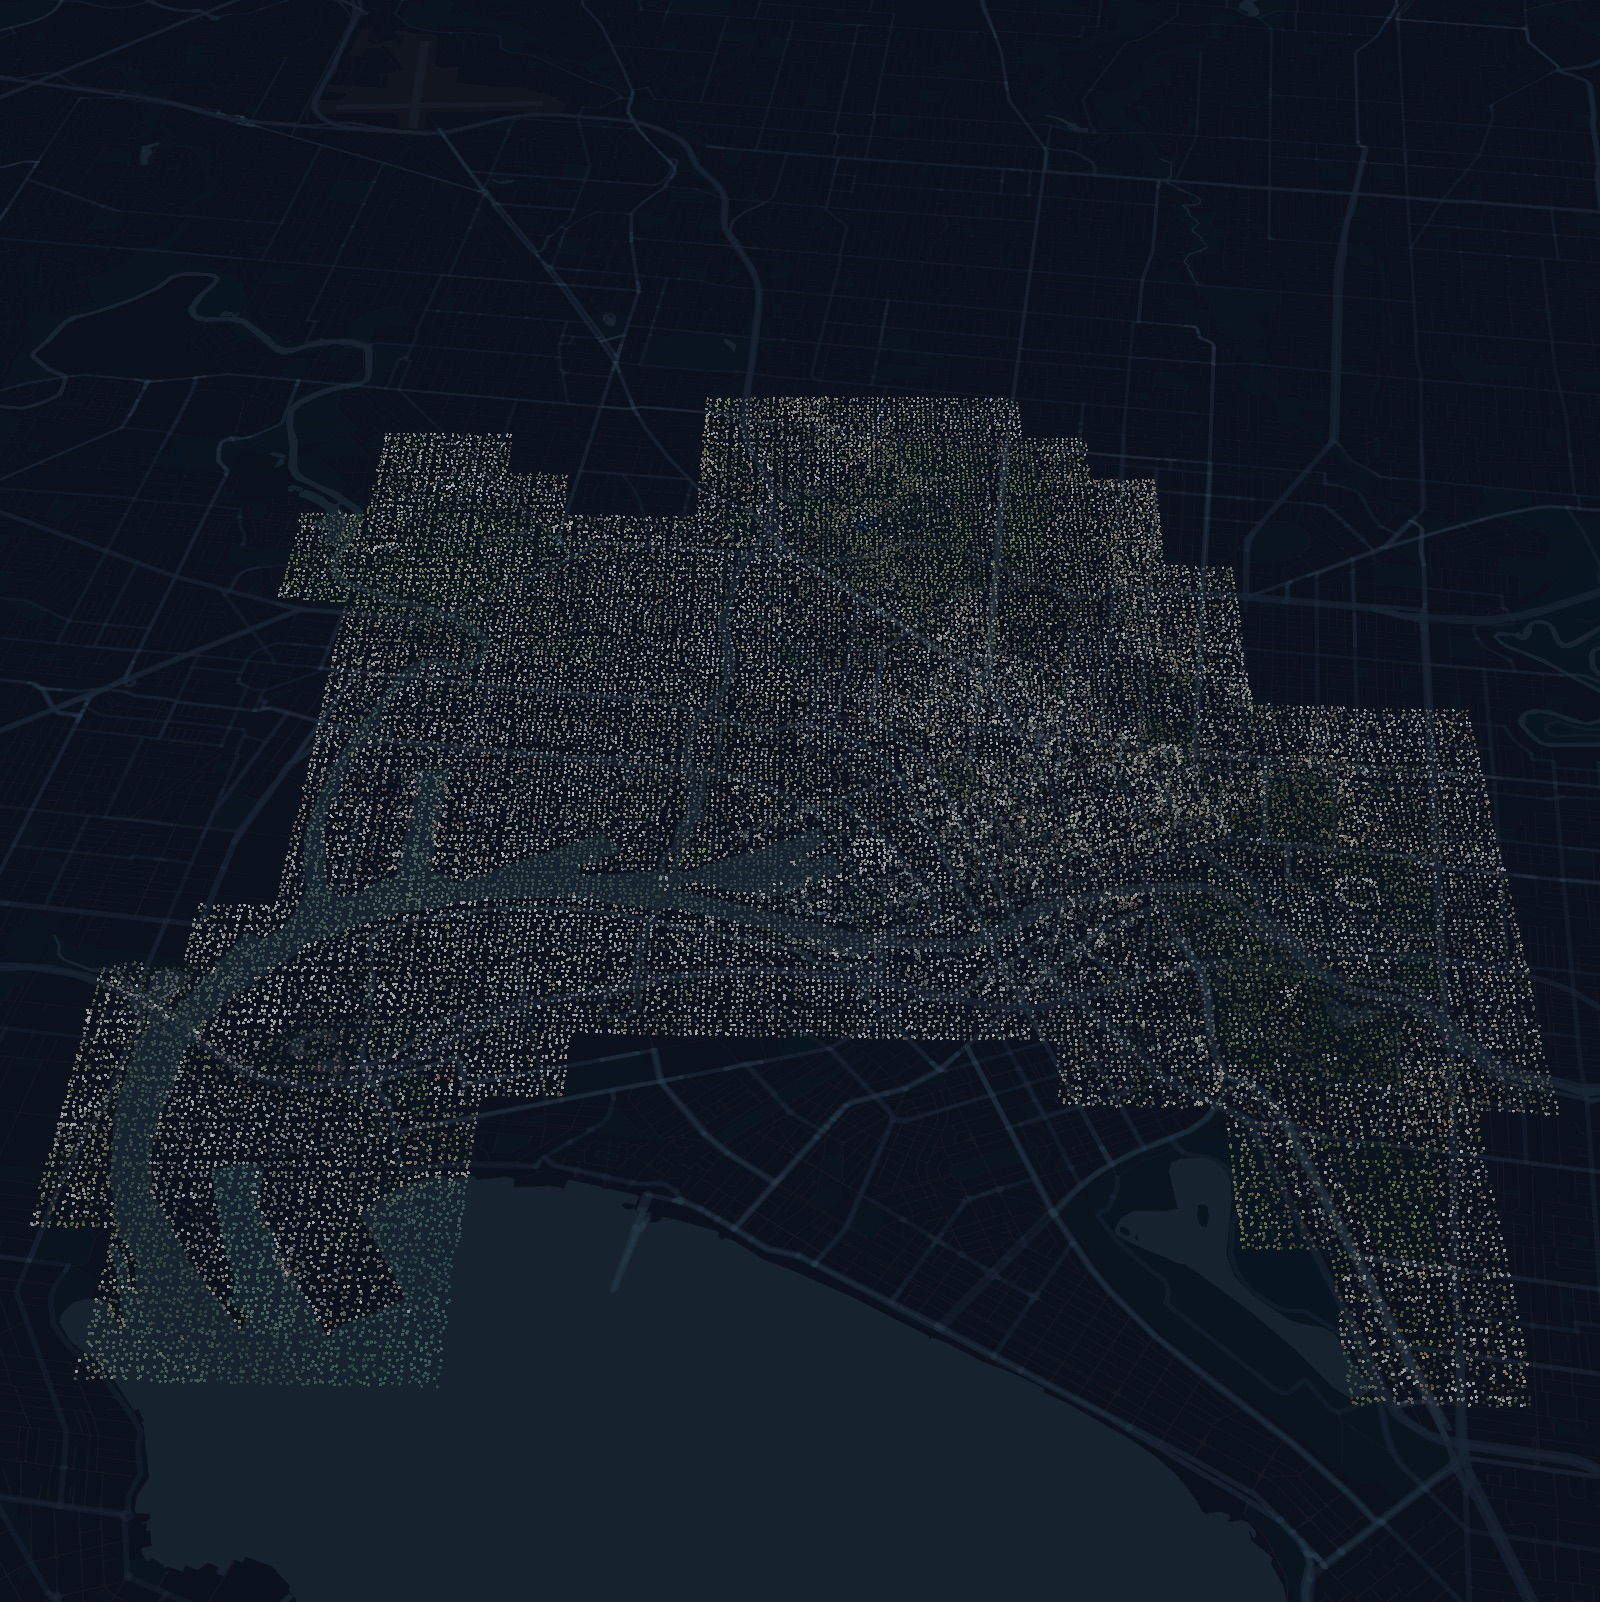
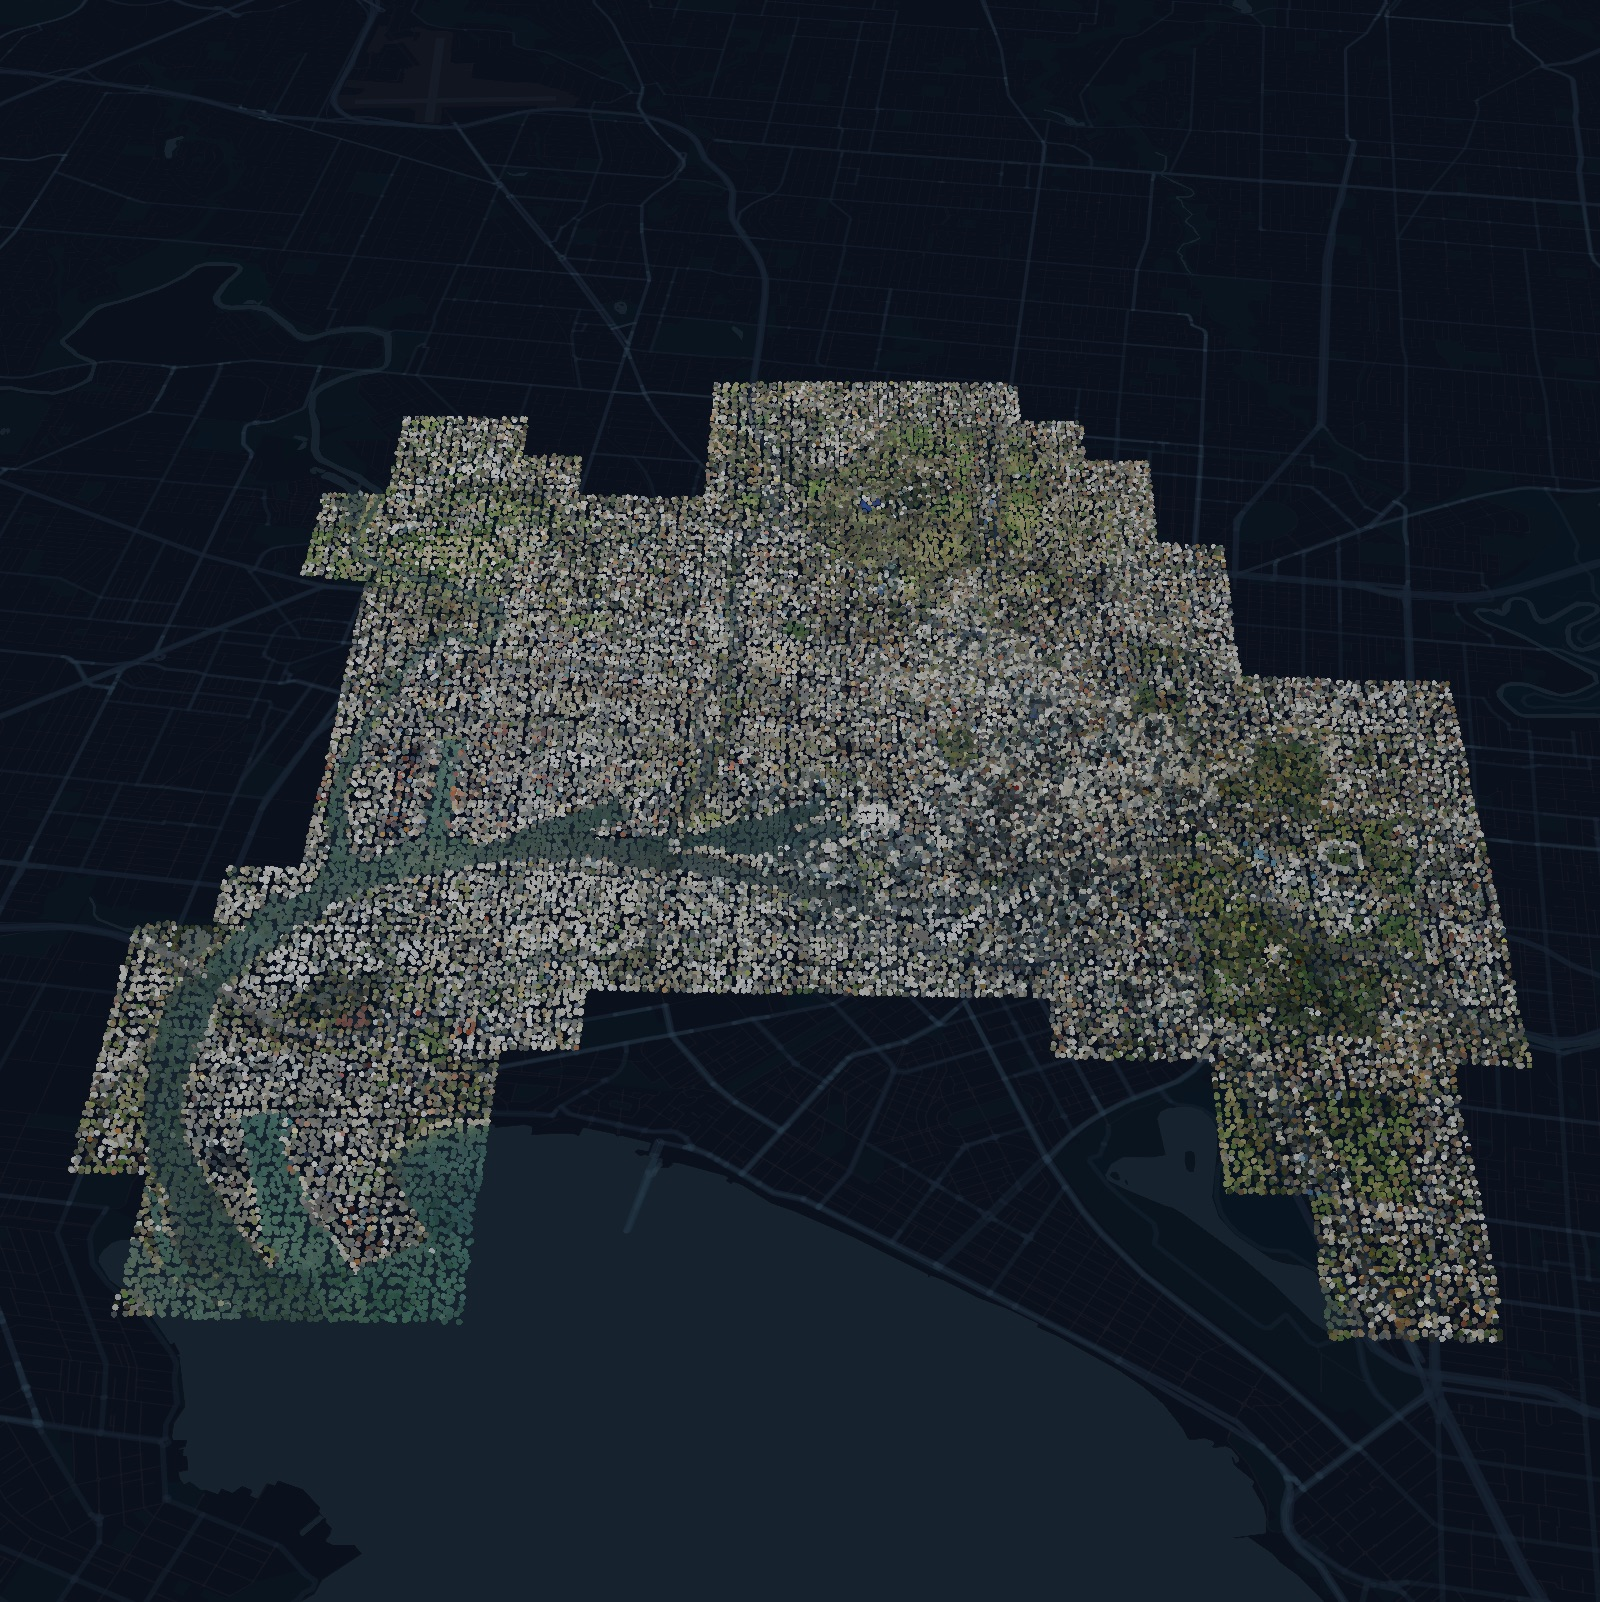
code review

Changed region(s): [[0.0312, 0.2185, 0.9688, 0.8739], [0.7812, 0.9051, 0.8125, 0.9363]]

diff --git a/examples/website/3d-tiles/app.js b/examples/website/3d-tiles/app.js
@@ -54,7 +54,7 @@ export class App extends PureComponent {
         // Update deck.gl viewState, moving the camera to the new tileset
         longitude: cartographicCenter[0],
         latitude: cartographicCenter[1],
-        zoom,
+        zoom: zoom + 1.5, // TODO - remove adjustment when Tileset3D calculates correct zoom
         bearing: INITIAL_VIEW_STATE.bearing,
         pitch: INITIAL_VIEW_STATE.pitch
       }
@@ -71,6 +71,7 @@ export class App extends PureComponent {
       id: 'tile-3d-layer',
       _ionAssetId: 28957,
       _ionAccessToken: ION_TOKEN,
+      pointSize: 2,
       DracoWorkerLoader,
       DracoLoader,
       onTilesetLoad: this._onTilesetLoad
